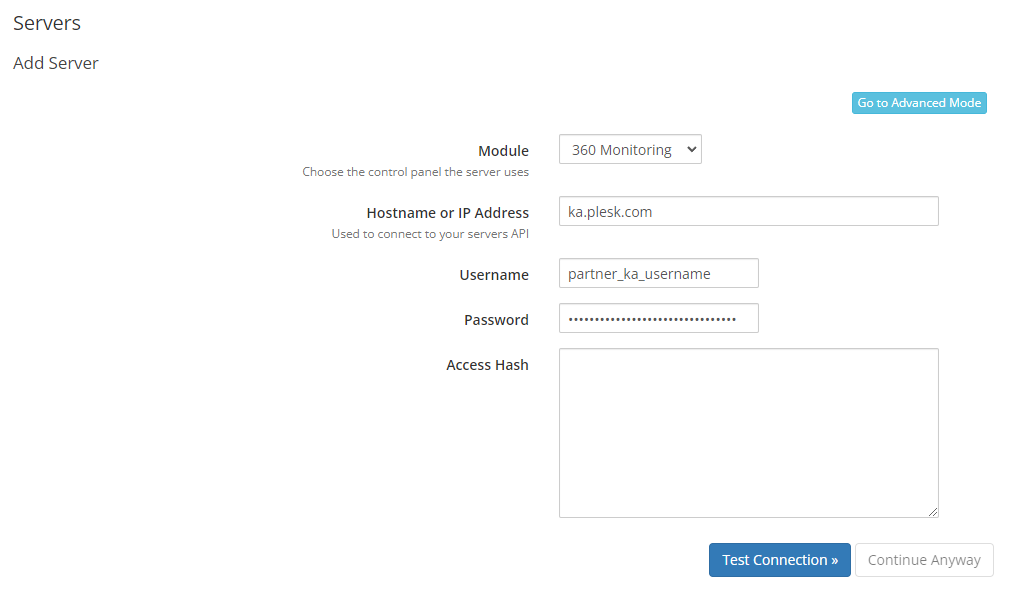
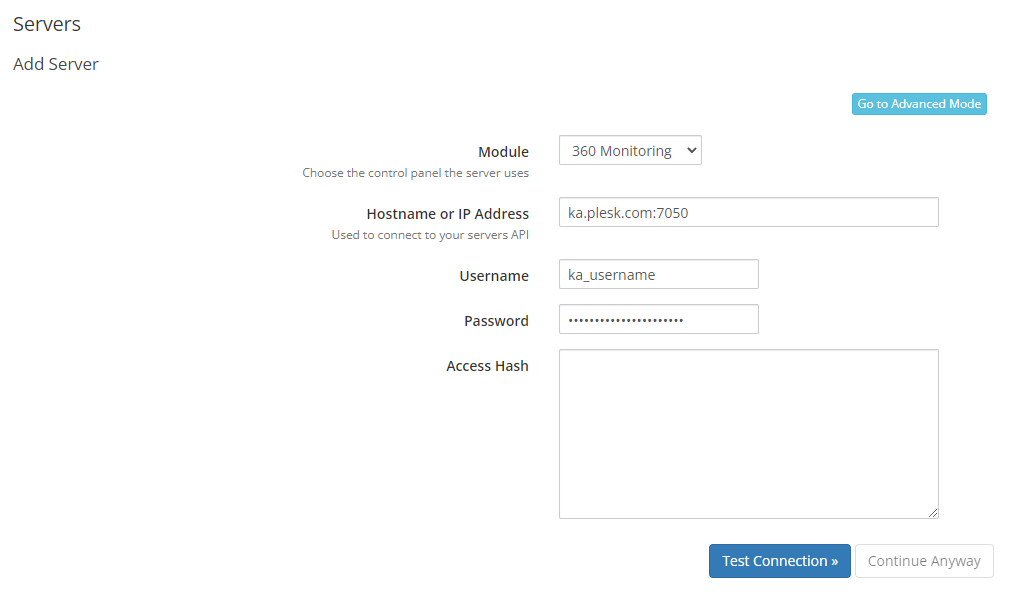
[HOTFIX] Make server port optional

diff --git a/p360monitoring.php b/p360monitoring.php
@@ -22,7 +22,7 @@ function p360monitoring_getKaApiClient(array $params): KaApi
     return new KaApi(
         $params[ServerOptions::SERVER_SCHEME],
         $params[ServerOptions::SERVER_HOST],
-        $params[ServerOptions::SERVER_PORT],
+        (int)$params[ServerOptions::SERVER_PORT],
         $params[ServerOptions::SERVER_USERNAME],
         $params[ServerOptions::SERVER_PASSWORD]
     );

diff --git a/lib/KaApi.php b/lib/KaApi.php
@@ -22,7 +22,11 @@ final class KaApi
         string $username,
         string $password
     ) {
-        $baseUri = $scheme . '://' . $host . ':' . $port;
+        $baseUri = $scheme . '://' . $host;
+
+        if ($port > 0) {
+            $baseUri .= ':' . $port;
+        }
 
         $this->client = new Client([
             'base_uri' => $baseUri,
